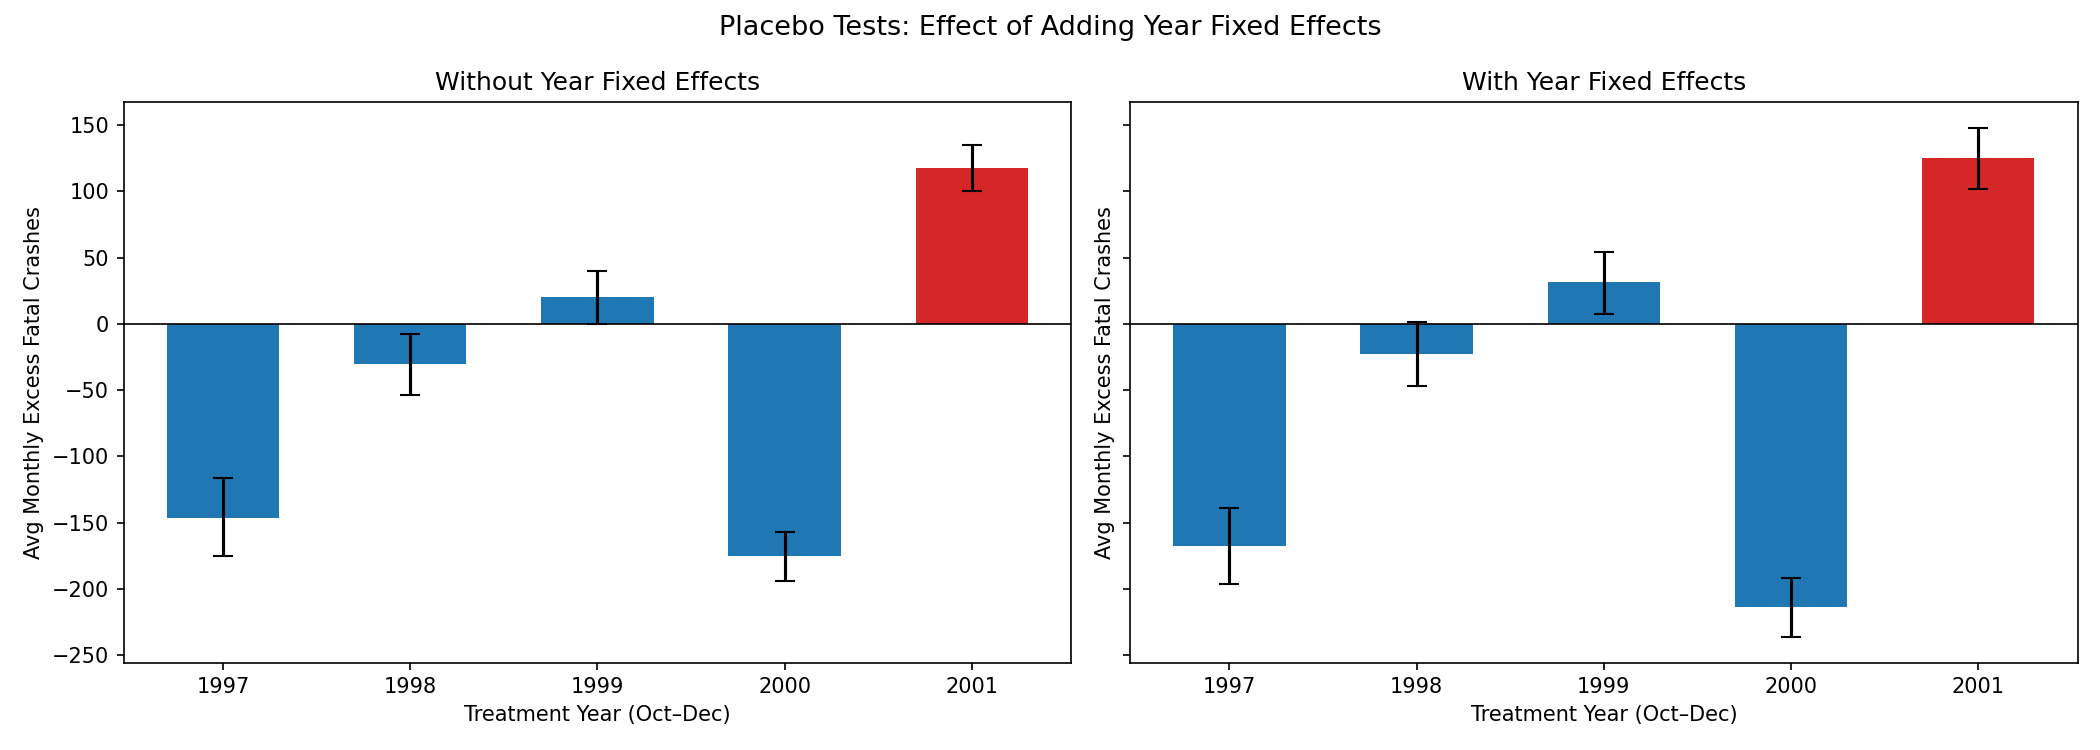
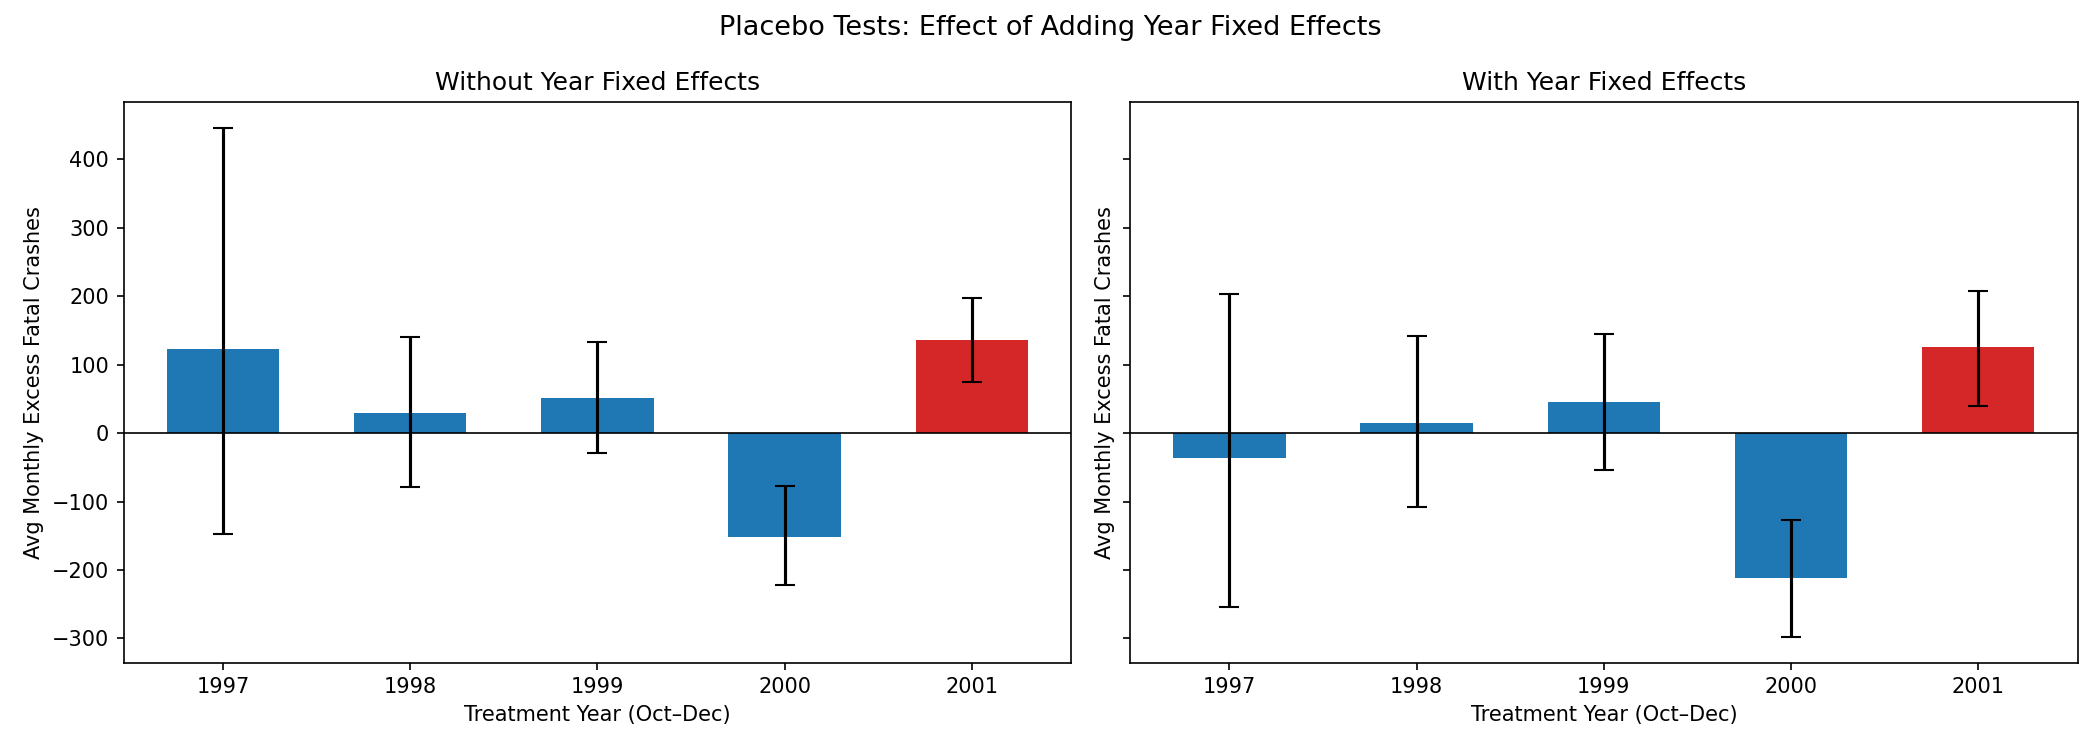
Edits

diff --git a/scripts/dread-risk/load_fars.py b/scripts/dread-risk/load_fars.py
@@ -20,12 +20,14 @@ INTERSTATE_CODES = {1, 11}
 
 def load_accident_tables() -> pd.DataFrame:
     """Load and concatenate ACCIDENT.CSV from all year ZIPs."""
+
     frames = []
     for year in YEARS:
         zip_path = FARS_DIR / f"FARS{year}NationalCSV.zip"
         with zipfile.ZipFile(zip_path) as zf:
             with zf.open("ACCIDENT.CSV") as f:
                 df = pd.read_csv(f, usecols=lambda c: c in KEEP_COLS, encoding="latin-1")
+
         # Some early years encode YEAR as 2-digit (e.g. 96); normalize to 4-digit
         if "YEAR" not in df.columns:
             df["YEAR"] = year
@@ -33,11 +35,13 @@ def load_accident_tables() -> pd.DataFrame:
             df["YEAR"] = df["YEAR"] + 1900
         frames.append(df)
         print(f"  {year}: {len(df):,} crashes")
+
     return pd.concat(frames, ignore_index=True)
 
 
 def build_monthly_national(df: pd.DataFrame) -> pd.DataFrame:
     """Monthly fatal crashes and fatalities, national level."""
+
     return (
         df.groupby(["YEAR", "MONTH"])
         .agg(fatal_crashes=("FATALS", "size"), fatalities=("FATALS", "sum"))
@@ -48,6 +52,7 @@ def build_monthly_national(df: pd.DataFrame) -> pd.DataFrame:
 
 def build_monthly_by_state(df: pd.DataFrame) -> pd.DataFrame:
     """Monthly fatal crashes and fatalities by state."""
+
     return (
         df.groupby(["YEAR", "MONTH", "STATE"])
         .agg(fatal_crashes=("FATALS", "size"), fatalities=("FATALS", "sum"))
@@ -58,6 +63,7 @@ def build_monthly_by_state(df: pd.DataFrame) -> pd.DataFrame:
 
 def build_monthly_by_road_type(df: pd.DataFrame) -> pd.DataFrame:
     """Monthly fatal crashes and fatalities by road functional class."""
+
     return (
         df.assign(is_interstate=lambda d: d["ROAD_FNC"].isin(INTERSTATE_CODES).astype(int))
         .groupby(["YEAR", "MONTH", "is_interstate"])
@@ -68,6 +74,7 @@ def build_monthly_by_road_type(df: pd.DataFrame) -> pd.DataFrame:
 
 
 def main():
+
     print("Loading FARS ACCIDENT tables (1996-2004)...")
     df = load_accident_tables()
     print(f"\nTotal records: {len(df):,}")

diff --git a/scripts/dread-risk/its_causalpy.py b/scripts/dread-risk/its_causalpy.py
@@ -5,7 +5,7 @@ from pathlib import Path
 
 import causalpy as cp  # type: ignore[import]
 import pandas as pd
-from pymc_extras.prior import Prior
+from pymc_extras.prior import Prior  # type: ignore[import]
 
 OUT_DIR = Path(__file__).resolve().parents[2] / "static" / "img" / "dread-risk"
 DATA_PATH = Path(__file__).resolve().parents[2] / "data" / "fars" / "processed" / "monthly_national.csv"

diff --git a/scripts/dread-risk/fig1_replication.py b/scripts/dread-risk/fig1_replication.py
@@ -50,7 +50,7 @@ def main():
 
     # September 11 reference line
     ax.axvline(9, color="red", linestyle="--", alpha=0.5, linewidth=1)
-    ax.text(9.15, ax.get_ylim()[0] + 50, "Sep 11", color="red", fontsize=9, alpha=0.7)
+    # ax.text(9.15, ax.get_ylim()[0] + 50, "Sep 11", color="red", fontsize=9, alpha=0.7)
 
     ax.set_xticks(months)
     ax.set_xticklabels(MONTHS)

diff --git a/content/post/dread-risk-and-driving.md b/content/post/dread-risk-and-driving.md
@@ -1,19 +1,119 @@
 ---
 title:       "Dread Risk and Driving"
-subtitle:    ""
-description: ""
-date:        2026-04-03T10:05:01-04:00
-author:      ""
+subtitle:    "Replicating and extending a classic study on dread risk after 9/11"
+description: "Did fear of flying after September 11 kill more Americans on the road than died on the planes? An updated analysis with modern using causal inference methods."
+date:        2026-04-03
+author:      "MJ"
 image:       ""
-tags:        []
+tags:        ["causal inference", "behavioral science"]
 categories:  []
 draft:       true
 ---
 
-During the Post-period (2001-10-01 00:00:00 to 2001-12-01 00:00:00), the response variable had an average value of approx. 3405.33. By contrast, in the absence of an intervention, we would have expected an average response of 3287.69. The 95% interval of this counterfactual prediction is [3269.99, 3305.25]. Subtracting this prediction from the observed response yields an estimate of the causal effect the intervention had on the response variable. This effect is 117.64 with a 95% interval of [100.08, 135.34].
+## Dread Risk and Driving
 
-Summing up the individual data points during the Post-period, the response variable had an overall value of 10216.00. By contrast, had the intervention not taken place, we would have expected a sum of 9863.07. The 95% interval of this prediction is [9809.98, 9915.76].
+Dread risk is defined as the fear of catastrophic but rare events (ref). [summarize research on dread risk?]
 
-The 95% HDI of the effect [100.08, 135.34] does not include zero. The posterior probability of an increase is 1.000. Relative to the counterfactual, the effect represents a 3.58% change (95% HDI [3.00%, 4.11%]).
+The terrorist attack on September 11, 2001 represent just such an event. After the attack, Americans avoided flying and drove instead. Revenue passenger miles dropped 20% in October 2001, 17% in November, and 12% in December compared with the same months in 2000. This shouldn't be surprising. Reductions in in flight offerings and increased security measures made flying less convenient in the months afterward. Without a doubt, lingering fear and anxiety about follow-up attacks also contributed to the decision to drive instead of fly.
 
-This analysis assumes that the relationship between the time-based predictors and the response observed during the pre-intervention period remains stable throughout the post-intervention period. If the formula includes external covariates, it further assumes they were not themselves affected by the intervention. We recommend inspecting model fit, examining pre-intervention trends, and conducting sensitivity analyses (e.g., placebo tests) to support any causal conclusions drawn from this analysis.
+We've all heard that flying is safer than driving, at least statistically. [some stats about per capita mortality rate]. More people on the road means more accidents and more fatalities. Shifting from flying to driving increases the relative risk of injury and death. Ironically, avoiding air travel after 911 and driving instead could have been a fatal mistake.
+
+## Estimating Excess Fatalities
+
+Gigerenzer set out to examine this possibility by comparing traffic fatality rates between October and December of 2001 to those sames months in the preceeding 5 years. In addition to the reduction in miles flown, Vehicle miles traveled (VMT) in October through December 2001 were 2.9% higher than the same months in 2000, compared with a 0.9% average increase in the months before September. The remaining question is central hypothesis of his study: did the extra driving cause extra deaths?
+
+To test this hypothesis, he analyzed monthly fatal traffic crash counts from NHTSA's Traffic Safety Facts reports for 1996 through 2001. The approach was simple. Compute the monthly average for 1996-2000 as a baseline, then compare 2001 against it. Before September, 2001 tracks the baseline closely, with an average deviation of just 9 fatal crashes per month (0.3% of the monthly total). After September, the October through December counts jump above the baseline.
+
+Assuming the last three months of 2001 would have continued the same small average increase of 9 crashes per month seen in January through August, the difference between this expected value and the observed value is the estimated excess: 67 + 163 + 87 = 317 excess fatal crashes across October, November, and December. Multiplying by the ratio of fatalities to crashes (42,116 / 37,795) gives roughly 353 excess deaths.
+
+We can replicate this analysis using FARS microdata.
+
+{{< figure src="/img/dread-risk/fig1_replication.png" caption="Monthly fatal traffic crashes in 2001 (black squares) versus the 1996-2000 mean (gray line) and range (vertical bars). The dashed red line marks September 11." class="img-center" width="90%" >}}
+
+The pattern matches. January through September, 2001 sits within the historical range. October through December, all three months are at or above the top of the range. November shows the largest jump, with 193 more fatal crashes than the baseline average. Our FARS data produces slightly different totals than the original paper (37,862 fatal crashes in 2001 versus the paper's 37,795), reflecting minor data revisions over the past two decades.
+
+The paper is asking a causal question: did fear of flying cause excess traffic deaths? The analysis is essentially a before-and-after comparison with no control group, applied to aggregate monthly counts. This is an interrupted time series design. The method itself is well-established. [describe assumptions]. Its validity depends primarily on the assumption that nothing else changed at the same time that could explain the spike. Is that a valid assumption?
+
+September 11 didn't just change flying behavior. It disrupted transportation networks, altered commuting patterns in the Northeast, triggered a recession, and produced widespread psychological distress. Alcohol consumption patterns shifted too, with some evidence of increased drinking in the months following the attacks. Any of these could affect traffic fatality rates independently of mode substitution.
+
+But even setting aside confounders, there's a more basic question: is the observed Q4 2001 spike actually unusual, or does year-to-year variation in quarterly crash counts routinely produce deviations of this size?
+
+### A Bayesian Interrupted Time Series
+
+To put the original analysis on firmer ground, we fit a Bayesian interrupted time series (ITS) model. The model includes a linear trend and monthly seasonal indicators, fit on the pre-intervention period (January 1996 through September 2001). It generates counterfactual predictions for October through December 2001 with full posterior uncertainty. September 2001 is included in the pre-intervention period, but 20 of its 30 days fell after the attacks. This is consistent with the original paper's framing, and changing it doesn't materially affect the results, but it means the pre-period is slightly contaminated by any post-attack behavioral shift.
+
+{{< figure src="/img/dread-risk/its_causalpy.png" caption="Bayesian interrupted time series analysis. Top: observed vs. counterfactual with 95% credible interval. Middle: monthly causal impact. Bottom: cumulative excess fatal crashes." class="img-center" width="90%" >}}
+
+The model estimates 353 cumulative excess fatal crashes in October through December 2001, with a 95% highest density interval of roughly 300 to 406. Our estimate of 353 excess fatal *crashes* is distinct from the original paper's 353 excess *fatalities*. The paper arrives at its fatality count by multiplying 317 excess crashes by the ratio of fatalities to fatal crashes (roughly 1.11). The near-identical headline numbers are a coincidence.
+
+### Placebo Tests
+
+A placebo test runs the same model but places a fake intervention at a time when no effect should exist. If the model is well-calibrated, placebo years should produce effects equivalent to zero. We ran the identical ITS specification pretending September 11 happened in October of 1997, 1998, 1999, and 2000.
+
+{{< figure src="/img/dread-risk/placebo_tests.png" caption="Placebo tests. The same ITS model is run with fake intervention dates in 1997-2000 (blue) versus the actual 2001 date (red). Error bars show 95% HDI." class="img-center" width="90%" >}}
+
+The estimate for 2000 produces a large effect. The model confidently estimates that Q4 1997 had 146 fewer fatal crashes per month than expected, and Q4 2000 had 175 fewer. These aren't real effects. They're just year-to-year variation that the model mistakes for an intervention.
+
+One caveat: the placebo pre-periods aren't all the same length. The 1997 placebo trains on just 21 months, while 2001 uses 69. Shorter pre-periods give the model less data to learn seasonal patterns, which may inflate false positive rates for the earlier placebos. Still, even the 2000 placebo, with 57 months of training data, produces a large spurious effect.
+
+The 2001 effect is the largest positive outlier, and it's the only year with a large positive effect. That's worth noting. But the placebos demonstrate that a 3-month window is too short for this model to reliably distinguish a real behavioral shift from ordinary quarterly noise. The tight credible intervals overstate our confidence. The original paper's chi-squared test, applied to three data points against a five-year average, suffers from the same problem.
+
+## Evidence That Survives Scrutiny
+
+The 3-month analysis is fragile. But we have data through 2004, which allows a stronger test. If the 2001 spike were just noise, it wouldn't persist into 2002. If it reflects a real behavioral shift, the excess should accumulate over time before fading as people resumed flying.
+
+### The Extended Timeline
+
+We fit the same ITS model but include all data through December 2004 in the post-intervention window.
+
+{{< figure src="/img/dread-risk/its_extended.png" caption="Extended ITS analysis through 2004. The cumulative impact panel shows excess fatal crashes continuing to accumulate through mid-2002 before leveling off." class="img-center" width="90%" >}}
+
+| Quarter | Avg Monthly Excess (posterior mean) |
+|:--------|-----------------------------------:|
+| 2001 Q4 | +118 |
+| 2002 Q1 | +148 |
+| 2002 Q2 | +69 |
+| 2002 Q3 | +70 |
+| 2002 Q4 | -63 |
+| 2003+ | Mixed around zero |
+
+These are posterior mean point estimates. The full posterior distributions are visible in the figure above, where the credible intervals widen as the projection extends further from the pre-period.
+
+The effect peaked in early 2002 and faded by the second half of that year, roughly 9 to 12 months after the attacks. By 2003, the monthly excess bounces around zero. This pattern is harder to dismiss as noise. Quarterly variation could explain a single 3-month spike, but it can't easily explain a sustained elevation that gradually decays over the same period that airlines reported depressed passenger traffic.
+
+The extended analysis is the most convincing evidence in favor of the dread-risk hypothesis, and it's one the original paper couldn't run.
+
+### Geographic Heterogeneity
+
+If the mechanism is people driving instead of flying, the effect should be stronger in states where more people fly. We split states into two groups based on passenger enplanement volume and compared October through December 2001 fatal crashes against the 1996-2000 baseline.
+
+{{< figure src="/img/dread-risk/state_excess.png" caption="Percentage change in fatal crashes (Oct-Dec 2001 vs. baseline) by state. Red bars are high air travel states." class="img-center" width="90%" >}}
+
+High air travel states saw a 6.7% increase in fatal crashes. All other states saw 0.9%. Among the larger states: New York (+17%), Georgia (+17%), Pennsylvania (+13%), and Colorado (+40%, though with a smaller baseline). This is the pattern you'd predict from mode substitution, and it's a pattern the original paper never tested. But these are raw group averages without formal uncertainty quantification on the difference, so the gap between groups could partly reflect sampling variability.
+
+The usual caveats apply. Small states produce noisy percentages. This is descriptive, not causal. And the same 3-month window that the placebo tests flagged as unreliable is at work here too. Still, the concentration in high-air-travel states is suggestive.
+
+### Road Type
+
+The original paper notes that rural interstate VMT spiked 5.3% after September 11, consistent with more long-distance driving. If the fatality increase came from mode substitution, it should show up on interstates.
+
+FARS classifies crashes by road functional class. We grouped rural interstates (code 1) and urban interstates (code 11) together and compared against non-interstate roads.
+
+{{< figure src="/img/dread-risk/road_type.png" caption="Fatal crashes by road type in 2001 vs. 1996-2000 baseline. Left: all interstates. Right: non-interstate roads." class="img-center" width="90%" >}}
+
+Interstates saw a modest 2.7% increase (+31 crashes), while non-interstate roads saw 4.3% (+371 crashes). Over 90% of the excess occurred off the interstate system. Interstates are the safest roads per mile, so extra interstate miles produce fewer additional fatalities than the same miles on arterials and local roads. The 2.7% crash increase against a 5.3% VMT spike implies a sub-unit elasticity of fatal crashes to miles driven. This is common in traffic safety research (doubling VMT does not double fatalities), so the finding is ambiguous rather than contradictory. It's consistent with mode substitution, but also consistent with more benign explanations like increased travel on already-busy routes where marginal risk per mile is lower.
+
+## What This Tells Us
+
+The original paper asked the right question and got the direction of the answer roughly right. Traffic fatalities did increase after September 11, and the increase concentrated in high air travel states and persisted in a pattern consistent with gradually fading fear.
+
+But the original analysis is too thin to support the precision of its headline claim. The chi-squared test on three data points against a five-year average isn't strong evidence. Our placebo tests show that the same methodology flags large "effects" in years when nothing happened. The 350-deaths number implies a certainty that the data can't support.
+
+The stronger evidence comes from what the original paper couldn't do: extending the window through 2004 and watching the effect accumulate and decay. That sustained pattern is harder to explain away. The geographic concentration in high-air-travel states provides additional support, even if it's descriptive.
+
+"A sustained increase in traffic fatalities, concentrated in high-air-travel states, lasting about a year after September 11" is a more defensible summary than "exactly 350 excess deaths in three months." It's less quotable. It's closer to what the evidence shows.
+
+----
+##### References
+
+Gigerenzer, G. (2004). Dread Risk, September 11, and Fatal Traffic Accidents. **Psychological Science**, 15(4), 286-287.
